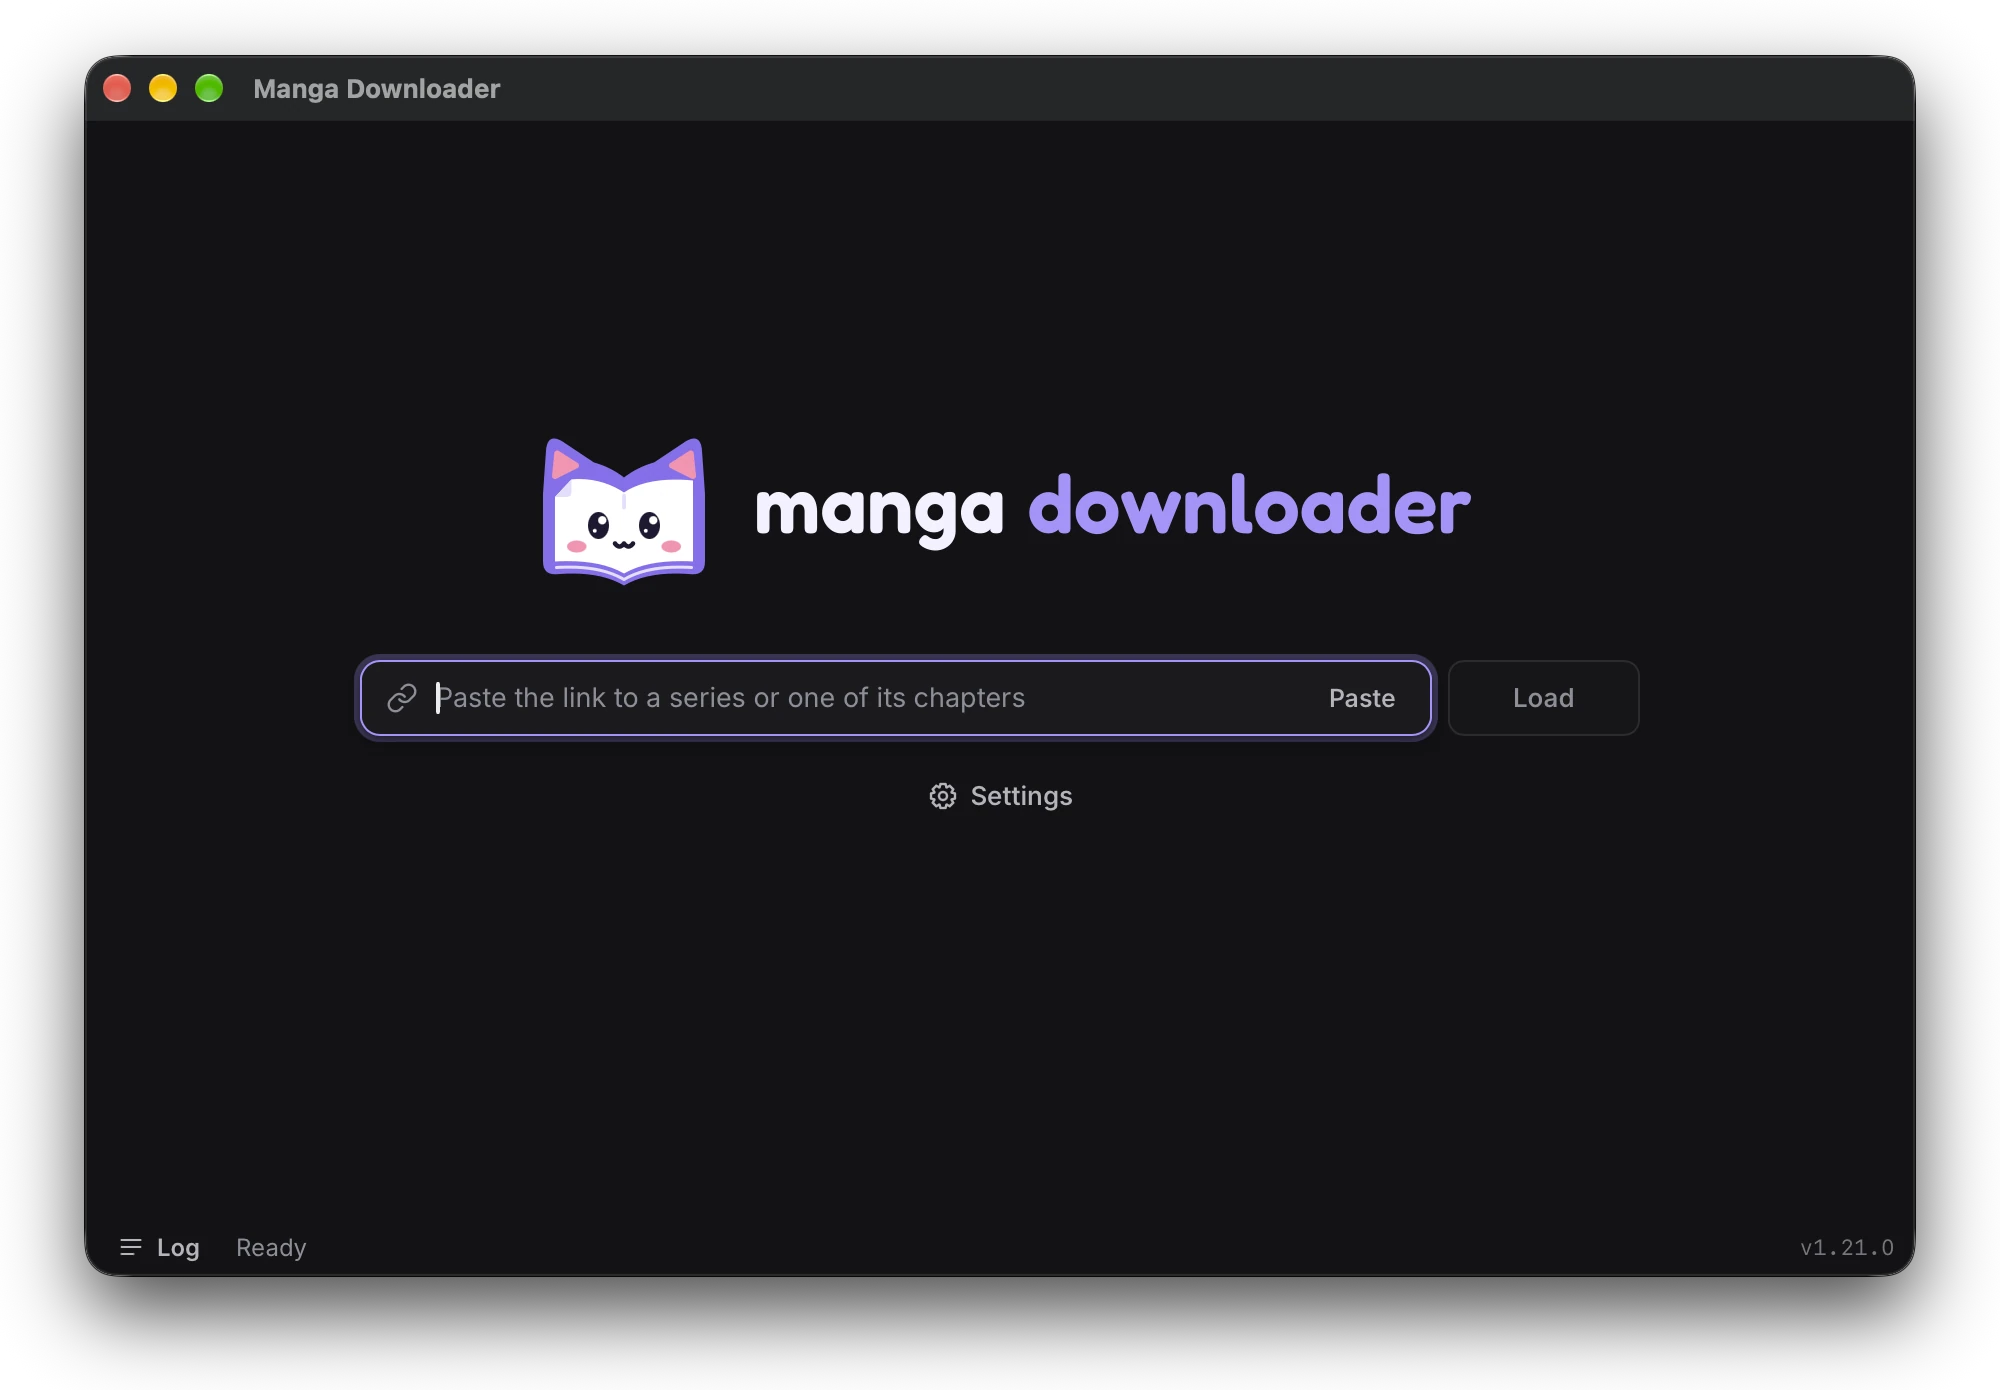
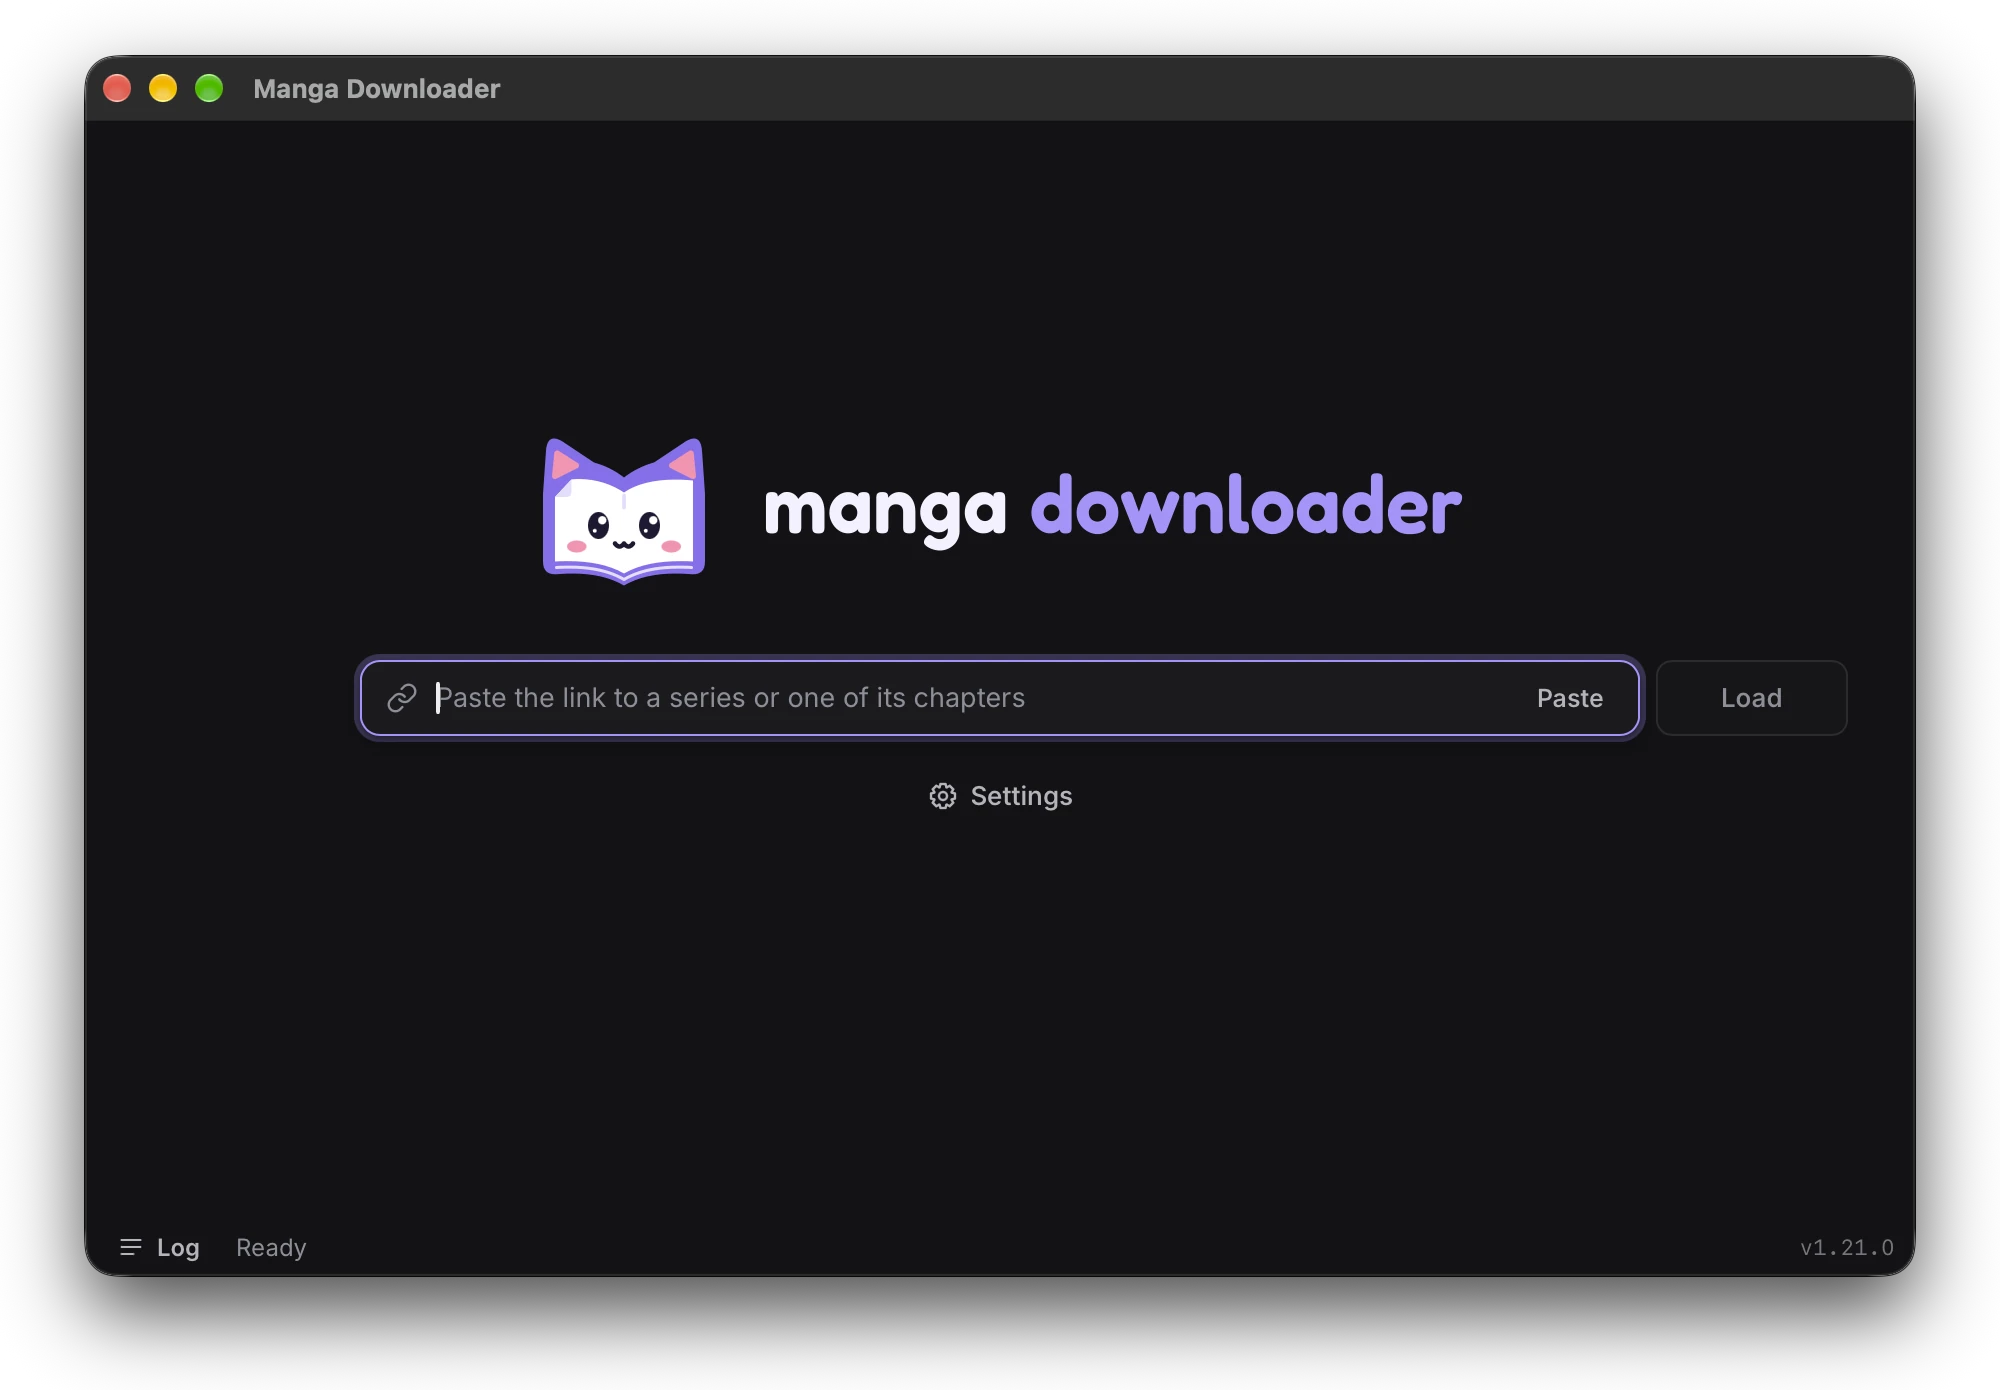
docs: retake the start and settings screenshots at v1.21.0
capture-all.sh takes SHOTS to retake only some of the shots.

diff --git a/gui/frontend/src/mock.test.ts b/gui/frontend/src/mock.test.ts
@@ -274,20 +274,20 @@ describe('createMockApi', () => {
     expect((await createMockApi('done').state()).version).toBe('v0.0.0-mock');
   });
 
-  it('shows v1.20.0 for all scenarios with shot, v1.21.0 as the update', async () => {
+  it('shows v1.21.0 for all scenarios with shot, v1.22.0 as the update', async () => {
     const update = await createMockApi({ scenario: 'update', shot: true }).state();
-    expect(update.version).toBe('v1.20.0');
-    expect(update.update?.latest).toBe('v1.21.0');
+    expect(update.version).toBe('v1.21.0');
+    expect(update.update?.latest).toBe('v1.22.0');
 
     const loaded = await createMockApi({ scenario: 'loaded', shot: true }).state();
-    expect(loaded.version).toBe('v1.20.0');
+    expect(loaded.version).toBe('v1.21.0');
     expect(loaded.update).toBeNull();
   });
 
   it('links the version to its release whenever it reports a release', async () => {
     const tag = (v: string) => `https://github.com/elboletaire/manga-downloader/releases/tag/${v}`;
-    expect((await createMockApi({ scenario: 'loaded', shot: true }).state()).releaseURL).toBe(tag('v1.20.0'));
-    expect((await createMockApi({ scenario: 'update', shot: true }).state()).releaseURL).toBe(tag('v1.20.0'));
+    expect((await createMockApi({ scenario: 'loaded', shot: true }).state()).releaseURL).toBe(tag('v1.21.0'));
+    expect((await createMockApi({ scenario: 'update', shot: true }).state()).releaseURL).toBe(tag('v1.21.0'));
     expect((await createMockApi('update').state()).releaseURL).toBe(tag('v1.12.0'));
     expect((await createMockApi('loaded').state()).releaseURL).toBe('');
   });
@@ -298,7 +298,7 @@ describe('createMockApi', () => {
     expect(shot?.prompt).toBeUndefined();
 
     const prompt = (await createMockApi({ scenario: 'update', shot: true, prompt: true }).state()).update;
-    expect(prompt).toMatchObject({ latest: 'v1.21.0', oneClick: true, prompt: true });
+    expect(prompt).toMatchObject({ latest: 'v1.22.0', oneClick: true, prompt: true });
     expect((await createMockApi({ scenario: 'loaded', prompt: true }).state()).update).toBeNull();
   });
 

diff --git a/gui/frontend/src/mock.ts b/gui/frontend/src/mock.ts
@@ -188,9 +188,9 @@ const MOCK_ALERT = msgOf('browser.alertNamed', { browser: 'Brave', host: 'check.
 
 const REPO = 'https://github.com/elboletaire/manga-downloader';
 const RELEASE_VERSION_DEV = 'v1.12.0';
-const RELEASE_VERSION_SHOT = 'v1.20.0';
+const RELEASE_VERSION_SHOT = 'v1.21.0';
 const UPDATE_VERSION_DEV = 'v1.13.0';
-const UPDATE_VERSION_SHOT = 'v1.21.0';
+const UPDATE_VERSION_SHOT = 'v1.22.0';
 
 function siteFrom(search: string): MockSite {
   const value = new URLSearchParams(search).get('site');

diff --git a/tools/screenshots/README.md b/tools/screenshots/README.md
@@ -76,6 +76,13 @@ English-only), and every language's crops and hero in the website's
 `src/assets/screenshots/`: English at its root, `es` and `ca` in a `<lang>/`
 folder. Without `--install` the PNGs stay in `out/<lang>/`.
 
+`SHOTS` retakes only the shots named, for a change that touched one or two of
+them; the website's crops are left alone then, since they need every source:
+
+```bash
+SHOTS="01-start 13-settings" tools/screenshots/capture-all.sh --install
+```
+
 A translated label that changes a panel's size needs its crop checked in
 `website/build/crop-screenshots.sh`: the crops assume the panels sit where they
 do in English, which holds only while the window size is fixed. The Language
